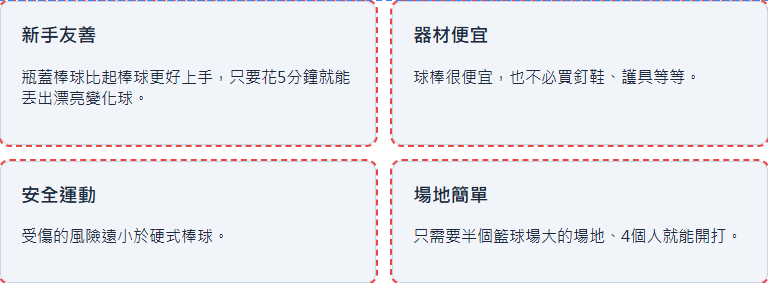
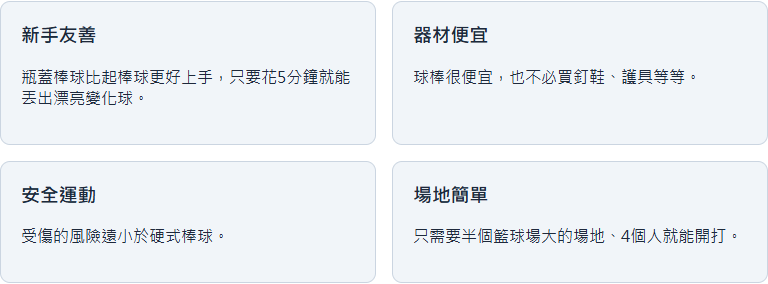
update README with grid format description and replace TODO with relevant information; update CSS screenshots

diff --git a/README.md b/README.md
@@ -94,7 +94,7 @@ The nav bar is just an unordered list stylized horizontally. It lets visitor jum
 </div>
 ```
 
-TODO
+The 2x2 grid is a great format to display brief information
 
 ### 3. `<table>`
 
